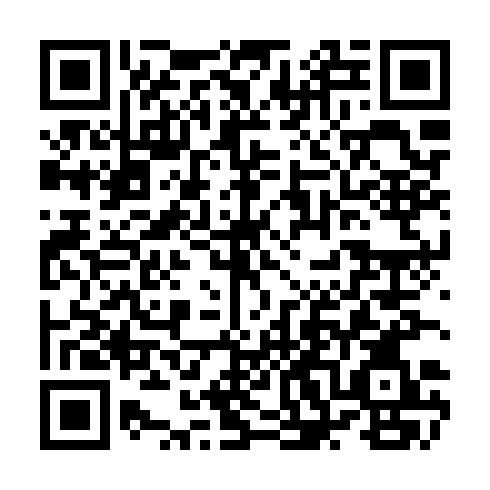
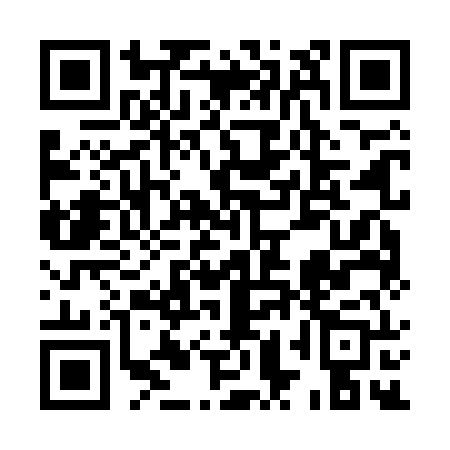
final

diff --git a/pages/drinks.php b/pages/drinks.php
@@ -181,9 +181,7 @@ include_once('/xampp/phpMyAdmin/htdocs/web/includes/dbh.php');
       <span class="food-price float-right">';echo $row["food_price"].' $</span>
     </h3>
                         <p class="food-ingredients">
-                          Lorem ipsum dolor sit amet, consectetur adipiscing elit. Etiam 
-                          at gravida lacus. Suspendisse laoreet ultrices ex, quis 
-                          efficitur justo rhoncus sit amet.
+                        ';echo $row["food_ingredients"].'
                         </p>
            </div>';
                 }
@@ -218,9 +216,7 @@ include_once('/xampp/phpMyAdmin/htdocs/web/includes/dbh.php');
       <span class="food-price float-right">';echo $row["food_price"].' $</span>
     </h3>
         <p class="food-ingredients">
-          Lorem ipsum dolor sit amet, consectetur adipiscing elit. Etiam 
-          at gravida lacus. Suspendisse laoreet ultrices ex, quis 
-          efficitur justo rhoncus sit amet.
+        ';echo $row["food_ingredients"].'
         </p>
       </div>';
                 }
@@ -252,9 +248,7 @@ include_once('/xampp/phpMyAdmin/htdocs/web/includes/dbh.php');
       <span class="food-price float-right">';echo $row["food_price"].' $</span>
     </h3>
         <p class="food-ingredients">
-          Lorem ipsum dolor sit amet, consectetur adipiscing elit. Etiam 
-          at gravida lacus. Suspendisse laoreet ultrices ex, quis 
-          efficitur justo rhoncus sit amet.
+        ';echo $row["food_ingredients"].'
         </p>
       </div>';
                 }
@@ -286,9 +280,7 @@ include_once('/xampp/phpMyAdmin/htdocs/web/includes/dbh.php');
       <span class="food-price float-right">';echo $row["food_price"].' $</span>
     </h3>
         <p class="food-ingredients">
-          Lorem ipsum dolor sit amet, consectetur adipiscing elit. Etiam 
-          at gravida lacus. Suspendisse laoreet ultrices ex, quis 
-          efficitur justo rhoncus sit amet.
+        ';echo $row["food_ingredients"].'
         </p>
       </div>';
                 }
@@ -320,9 +312,7 @@ include_once('/xampp/phpMyAdmin/htdocs/web/includes/dbh.php');
       <span class="food-price float-right">';echo $row["food_price"].' $</span>
     </h3>
         <p class="food-ingredients">
-          Lorem ipsum dolor sit amet, consectetur adipiscing elit. Etiam 
-          at gravida lacus. Suspendisse laoreet ultrices ex, quis 
-          efficitur justo rhoncus sit amet.
+        ';echo $row["food_ingredients"].'
         </p>
       </div>';
                 }
@@ -354,9 +344,7 @@ include_once('/xampp/phpMyAdmin/htdocs/web/includes/dbh.php');
       <span class="food-price float-right">';echo $row["food_price"].' $</span>
     </h3>
         <p class="food-ingredients">
-          Lorem ipsum dolor sit amet, consectetur adipiscing elit. Etiam 
-          at gravida lacus. Suspendisse laoreet ultrices ex, quis 
-          efficitur justo rhoncus sit amet.
+        ';echo $row["food_ingredients"].'
         </p>
       </div>';
                 }

diff --git a/pages/food.php b/pages/food.php
@@ -181,7 +181,7 @@ include_once('/xampp/phpMyAdmin/htdocs/web/includes/dbh.php');
               <span class="food-price float-right">';echo $row["food_price"].' $</span>
             </h3>
             <p class="food-ingredients">
-            ';echo $row["food_description"].'
+            ';echo $row["food_ingredients"].'
             </p>
           </div>';
                     }
@@ -210,7 +210,7 @@ include_once('/xampp/phpMyAdmin/htdocs/web/includes/dbh.php');
             <span class="food-price float-right">';echo $row["food_price"].' $</span>
           </h3>
             <p class="food-ingredients">
-            ';echo $row["food_description"].'
+            ';echo $row["food_ingredients"].'
             </p>
           </div>';
                     }
@@ -240,7 +240,7 @@ include_once('/xampp/phpMyAdmin/htdocs/web/includes/dbh.php');
             <span class="food-price float-right">';echo $row["food_price"].' $</span>
           </h3>
             <p class="food-ingredients">
-            ';echo $row["food_description"].'
+            ';echo $row["food_ingredients"].'
             </p>
           </div>';
                     }
@@ -272,7 +272,7 @@ include_once('/xampp/phpMyAdmin/htdocs/web/includes/dbh.php');
             <span class="food-price float-right">';echo $row["food_price"].' $</span>
           </h3>
             <p class="food-ingredients">
-            ';echo $row["food_description"].'
+            ';echo $row["food_ingredients"].'
             </p>
           </div>';
                     }
@@ -303,7 +303,7 @@ include_once('/xampp/phpMyAdmin/htdocs/web/includes/dbh.php');
             <span class="food-name"><a href="/web/pages/qrDisplay.php?varname=';echo $row["id"].'" >';echo $row["food_name"].'</a></span>
             <span class="food-price float-right">';echo $row["food_price"].' $</span>
           </h3>
-          ';echo $row["food_description"].'
+          ';echo $row["food_ingredients"].'
             </p>
           </div>';
                     }
@@ -335,7 +335,7 @@ include_once('/xampp/phpMyAdmin/htdocs/web/includes/dbh.php');
             <span class="food-price float-right">';echo $row["food_price"].' $</span>
           </h3>
             <p class="food-ingredients">
-            ';echo $row["food_description"].'
+            ';echo $row["food_ingredients"].'
             </p>
           </div>';
                     }
@@ -367,7 +367,7 @@ include_once('/xampp/phpMyAdmin/htdocs/web/includes/dbh.php');
             <span class="food-price float-right">';echo $row["food_price"].' $</span>
           </h3>
             <p class="food-ingredients">
-            ';echo $row["food_description"].'
+            ';echo $row["food_ingredients"].'
             </p>
           </div>';
                     }

diff --git a/pages/desserts.php b/pages/desserts.php
@@ -157,7 +157,7 @@ include_once('/xampp/phpMyAdmin/htdocs/web/includes/dbh.php');
               <span class="food-price float-right">';echo $row["food_price"].' $</span>
             </h3>
             <p class="food-ingredients">
-            ';echo $row["food_description"].'
+            ';echo $row["food_ingredients"].'
             </p>
           </div>';
                     }
@@ -189,7 +189,7 @@ include_once('/xampp/phpMyAdmin/htdocs/web/includes/dbh.php');
             <span class="food-price float-right">';echo $row["food_price"].' $</span>
           </h3>
             <p class="food-ingredients">
-            ';echo $row["food_description"].'
+            ';echo $row["food_ingredients"].'
             </p>
           </div>';
                     }
@@ -221,7 +221,7 @@ include_once('/xampp/phpMyAdmin/htdocs/web/includes/dbh.php');
             <span class="food-price float-right">';echo $row["food_price"].' $</span>
           </h3>
             <p class="food-ingredients">
-            ';echo $row["food_description"].'
+            ';echo $row["food_ingredients"].'
             </p>
           </div>';
                     }
@@ -254,7 +254,7 @@ include_once('/xampp/phpMyAdmin/htdocs/web/includes/dbh.php');
             <span class="food-price float-right">';echo $row["food_price"].' $</span>
           </h3>
             <p class="food-ingredients">
-            ';echo $row["food_description"].'
+            ';echo $row["food_ingredients"].'
             </p>
           </div>';
                     }
@@ -286,7 +286,7 @@ include_once('/xampp/phpMyAdmin/htdocs/web/includes/dbh.php');
             <span class="food-price float-right">';echo $row["food_price"].' $</span>
           </h3>
             <p class="food-ingredients">
-            ';echo $row["food_description"].'
+            ';echo $row["food_ingredients"].'
             </p>
           </div>';
                     }

diff --git a/pages/displayFood.php b/pages/displayFood.php
@@ -41,11 +41,11 @@ $newname = $row["id"];
 if(isset($_POST['submit']))
     {
       
-      $sql = "UPDATE `food` SET `food_name` = '$food_name', `food_price` = '$food_price', `food_type` = '$food_type', `food_subtype` = '$food_subtype',`food_description`='$food_descritpion' WHERE `id`= '$id';";
+      $sql = "UPDATE `food` SET `food_name` = '$food_name', `food_price` = '$food_price', `food_type` = '$food_type', `food_subtype` = '$food_subtype',`food_ingredients`='$food_descritpion' WHERE `id`= '$id';";
       mysqli_query($conn, $sql);
       header("Location: /web/pages/modifyDish.php");
       $name = str_replace(' ', '', $name);
-      $actual_link = "https://localhost/web/pages/qrDisplay.php?varname=$id";
+      $actual_link = "localhost/web/pages/qrDisplay.php?varname=$id";
       exec ("/xampp/phpMyAdmin/htdocs/web/qrcode/main.py $actual_link $newname" );
       
         exit();
@@ -122,7 +122,7 @@ if(isset($_POST['submit']))
                                     <option value="wines">Wines</option>
                                   </select><br>
                                   <label for="tex">Food Description</label>
-                                  <input type="text" name="description"value="';echo $row["food_description"].'">
+                                  <input type="text" name="description"value="';echo $row["food_ingredients"].'">
 
                                     
                                 </select>

diff --git a/pages/addDish.php b/pages/addDish.php
@@ -5,21 +5,21 @@ $food_name = $_POST['name'];
 $food_type = $_POST['type'];
 $food_price = $_POST['price'];
 $food_subtype = $_POST['subtype'];
-$food_description = $_POST['description'];
+$food_ingredients = $_POST['description'];
 
 if(isset($_POST['submit']))
     {
-      $sql = "INSERT INTO food (food_name,food_price,food_type,food_subtype,food_description)VALUES('$food_name','$food_price','$food_type','$food_subtype','$food_description');";
+      $sql = "INSERT INTO food (food_name,food_price,food_type,food_subtype,food_ingredients)VALUES('$food_name','$food_price','$food_type','$food_subtype','$food_ingredients');";
       mysqli_query($conn, $sql);
       
-      $sql = "SELECT * FROM `food` WHERE id ='$id'";
+      $sql = "SELECT * FROM `food` WHERE id =`$id`";
       $result = mysqli_query($conn, $sql);
       $row = mysqli_fetch_assoc($result);
       $newname = $row["id"];
       mysqli_query($conn, $sql);
       header("Location: /web/pages/modifyDish.php");
       $name = str_replace(' ', '', $food_name);
-      $actual_link = "https://localhost/web/pages/qrDisplay.php?varname=$newname";
+      $actual_link = "localhost/web/pages/qrDisplay.php?varname=$newname";
       exec ("/xampp/phpMyAdmin/htdocs/web/qrcode/main.py $actual_link $newname" );
       
         exit();

diff --git a/pages/qrDisplay.php b/pages/qrDisplay.php
@@ -45,7 +45,7 @@ $food_name = $_POST['name'];
 $food_type = $_POST['type'];
 $food_price = $_POST['price'];
 $food_subtype = $_POST['subtype'];
-$food_description = $_POST['description'];
+$food_ingredients = $_POST['description'];
 $id = $_GET['varname'];
 
 
@@ -141,7 +141,7 @@ $row = mysqli_fetch_assoc($result);
 <h4>Price :  <?php echo $row["food_price"];?> $</h4><br>
 <h4>Type : <?php echo $row["food_type"];?></h4><br>
 <h4>Sub Type : <?php echo $row["food_subtype"];?></h4><br>
-<h4>Description : <?php echo $row["food_description"];?></h4><br>
+<h4>Description : <?php echo $row["food_ingredients"];?></h4><br>
 <img class="qrcode"src="/web/qrcode/<?php echo$row["id"]?>.jpg" width="300" height="300"><br> 
 <button class="button button2" id="oderbtn" onclick="order()">Order</button>
 
@@ -222,8 +222,14 @@ $row = mysqli_fetch_assoc($result);
 <script>
 
 function order() {
-  alert("Successfully ordered 1 <?php   echo $row["food_name"] ; ?>")
-  location.href = "/web/pages/modifyDish.php";
+  alert("Successfully ordered 1 <?php echo $row["food_name"] ; ?>")
+  <?php 
+       
+       $sql = "UPDATE `food` SET `food_orders` = `food_orders` + 1 WHERE `id` = $id;";
+       mysqli_query($conn, $sql);
+       echo("window.history.go(-1);")
+
+  ?>
 }
 
 </script>
